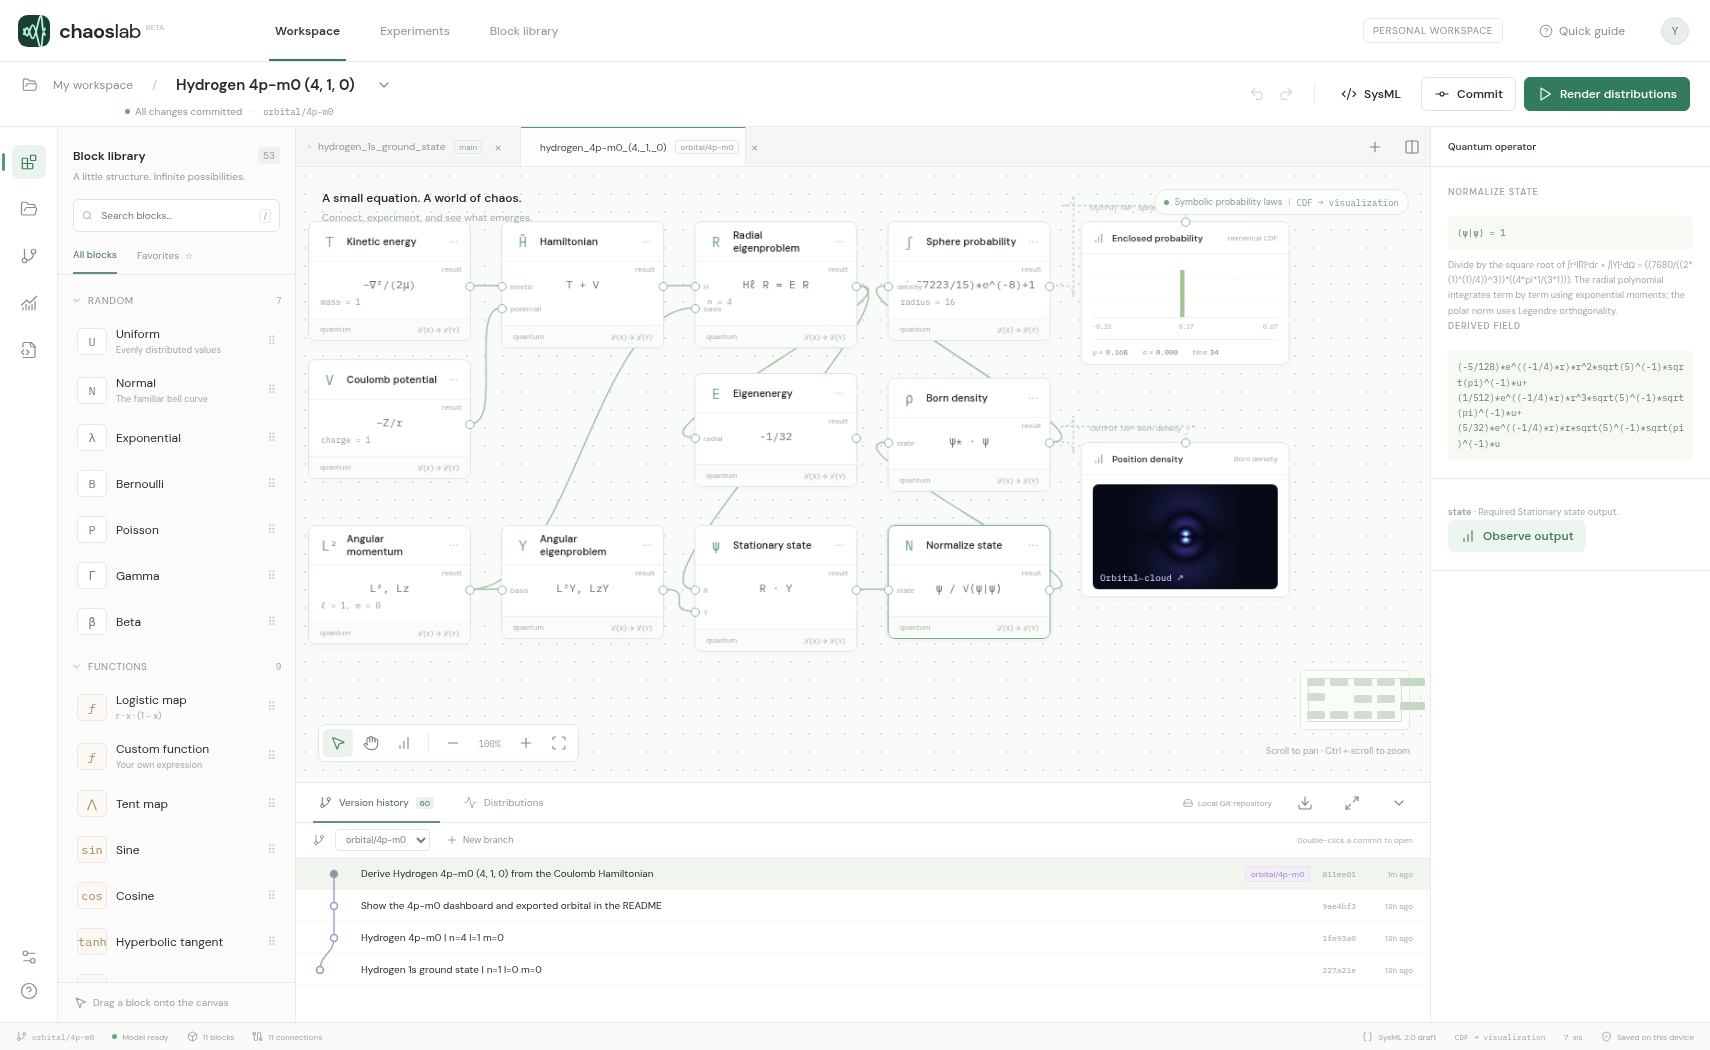
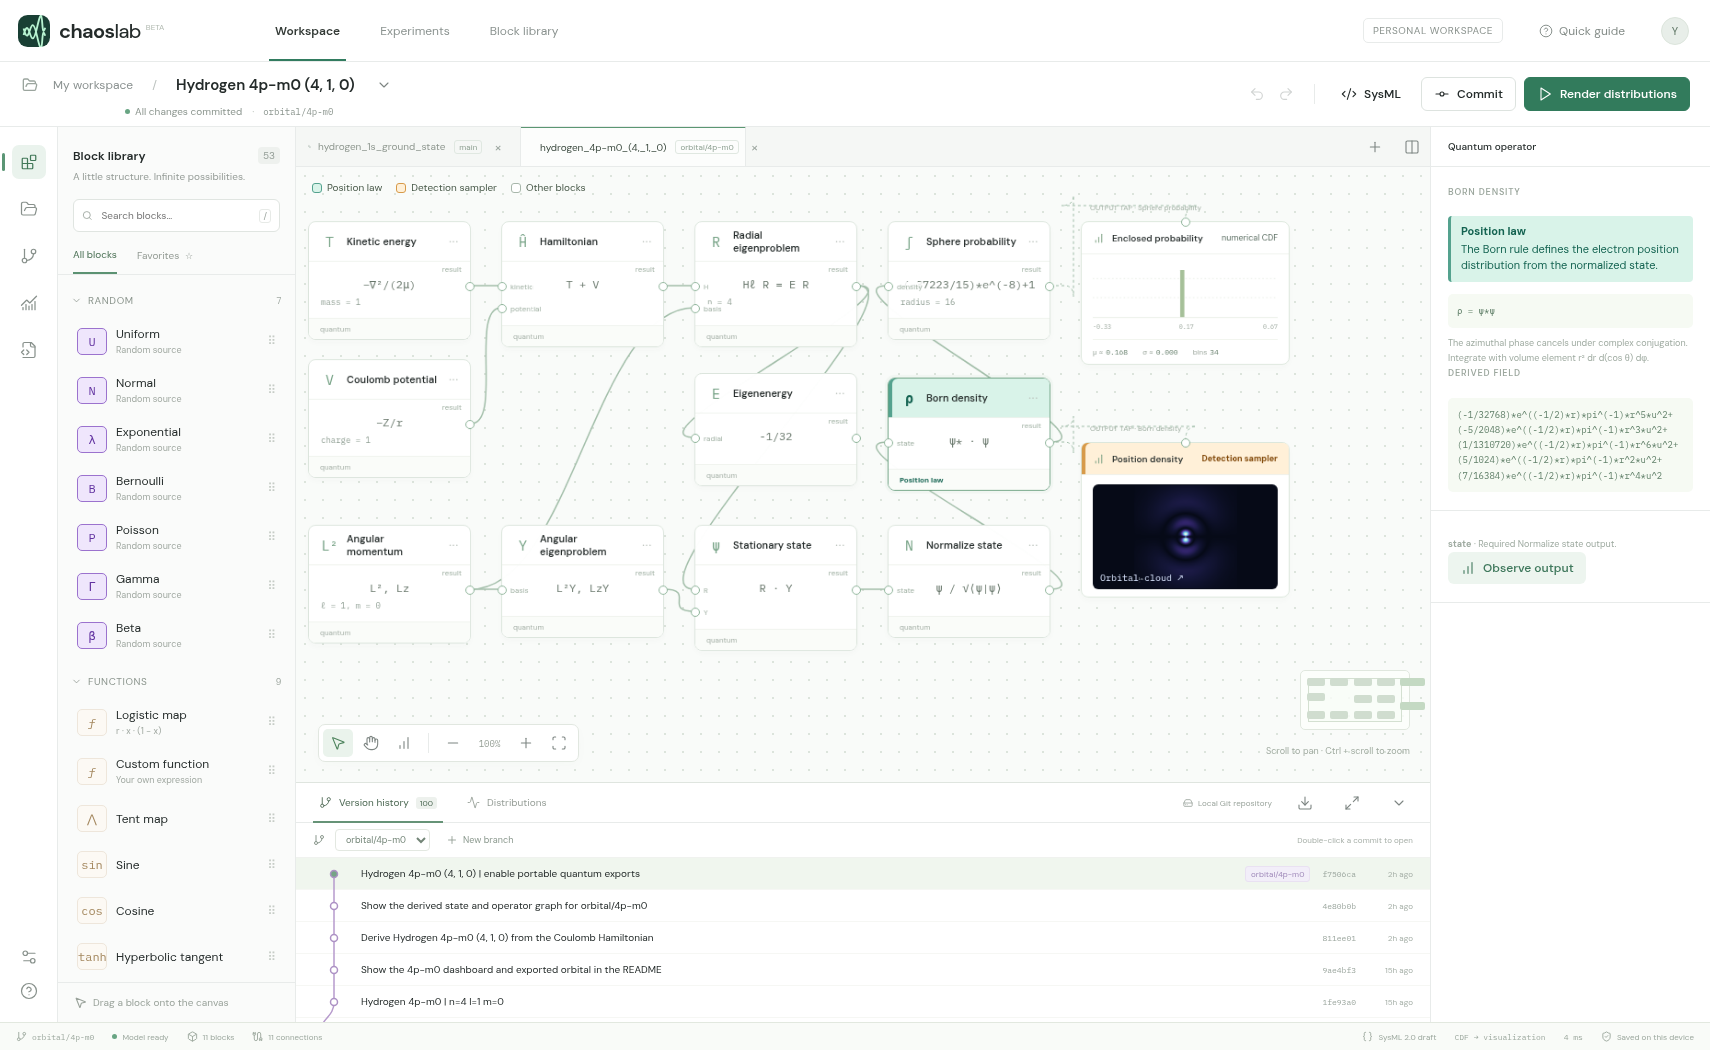
Hydrogen 4p-m0 (4, 1, 0) | identify the position law and detection sampler

diff --git a/studio.py b/studio.py
@@ -10,7 +10,7 @@ import tempfile
 import webbrowser
 
 ROOT = Path(__file__).resolve().parent
-STUDIO_REV = "1cc30c5632f1fe1f79a11ab6730f82c36a6c01e4"
+STUDIO_REV = "8657d6ecd3aa33a5a28f43219d5d6bfb8aa3edcc"
 STUDIO_REPO = "https://github.com/wa200508/chaos_lab.git"
 
 

diff --git a/README.md b/README.md
@@ -6,6 +6,8 @@ Open **Version history** in Chaos Lab to explore the 20 hydrogen designs in this
 
 The connected Hamiltonian and eigenstate solvers give $E=-1/32$ Hartree for this state.
 
+On the canvas, teal **Position law** marks where the Born rule defines the distribution of electron positions. Amber **Detection sampler** marks the tap that draws positions for the projected cloud. The central slice evaluates the density directly.
+
 ![Chaos Lab dashboard with the 4p model, m = 0, open in version history](dashboard.png)
 
 Radial nodes: 2. Polar nodes: 1. Plot half-width: 32 Bohr radii.
